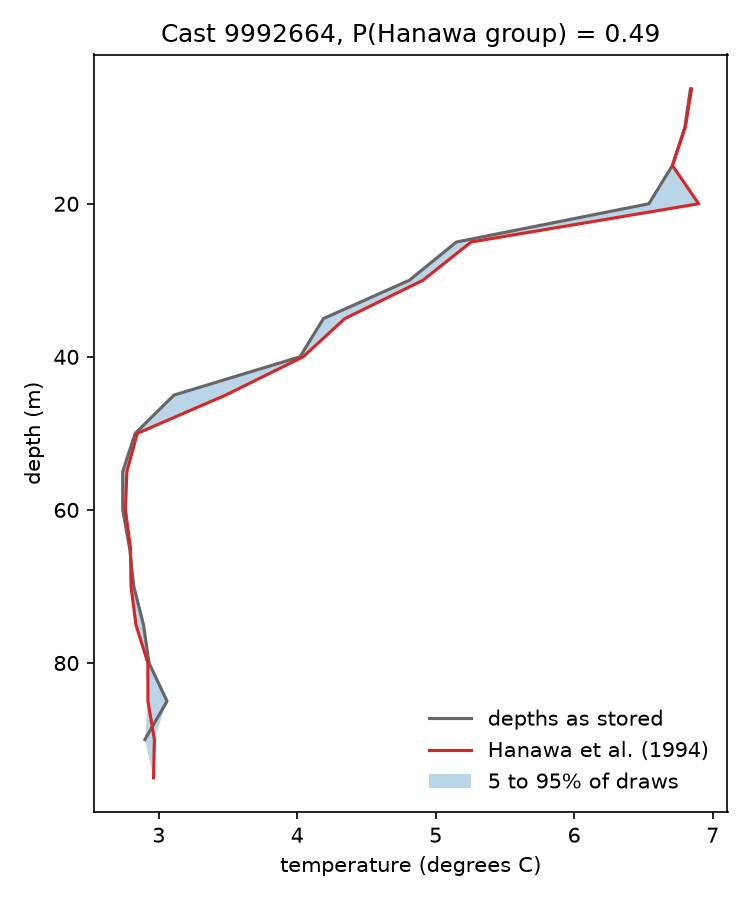
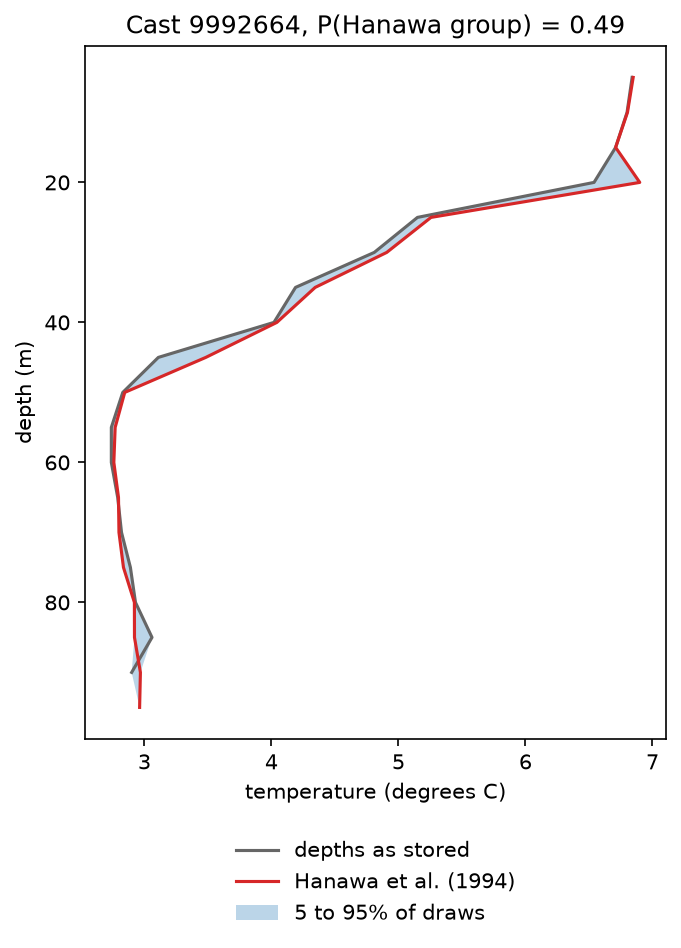
Move figure legends below the plots

diff --git a/scripts/correct_unknown_profiles.py b/scripts/correct_unknown_profiles.py
@@ -194,9 +194,9 @@ def main():
     ax.set_xlabel("temperature spread across draws (degrees C)")
     ax.set_ylabel("depth (m)")
     ax.set_ylim(800, 0)
-    ax.legend(frameon=False, loc="lower right")
-    fig.tight_layout()
-    fig.savefig(FIGURES / "profile_spread.png", dpi=150)
+    # Below the axes, so it cannot cover the curves.
+    ax.legend(frameon=False, loc="upper center", bbox_to_anchor=(0.5, -0.12))
+    fig.savefig(FIGURES / "profile_spread.png", dpi=150, bbox_inches="tight")
 
     cast_id = min(examples, key=lambda k: abs(examples[k][2] - 0.5))
     z, temperature, p_cast, samples = examples[cast_id]
@@ -208,9 +208,8 @@ def main():
     ax.set_xlabel("temperature (degrees C)")
     ax.set_ylabel("depth (m)")
     ax.set_title(f"Cast {cast_id}, P(Hanawa group) = {p_cast:.2f}")
-    ax.legend(frameon=False, loc="lower right")
-    fig.tight_layout()
-    fig.savefig(FIGURES / "example_cast.png", dpi=150)
+    ax.legend(frameon=False, loc="upper center", bbox_to_anchor=(0.5, -0.12))
+    fig.savefig(FIGURES / "example_cast.png", dpi=150, bbox_inches="tight")
 
     out = {
         "years": [min(YEARS), max(YEARS)],
